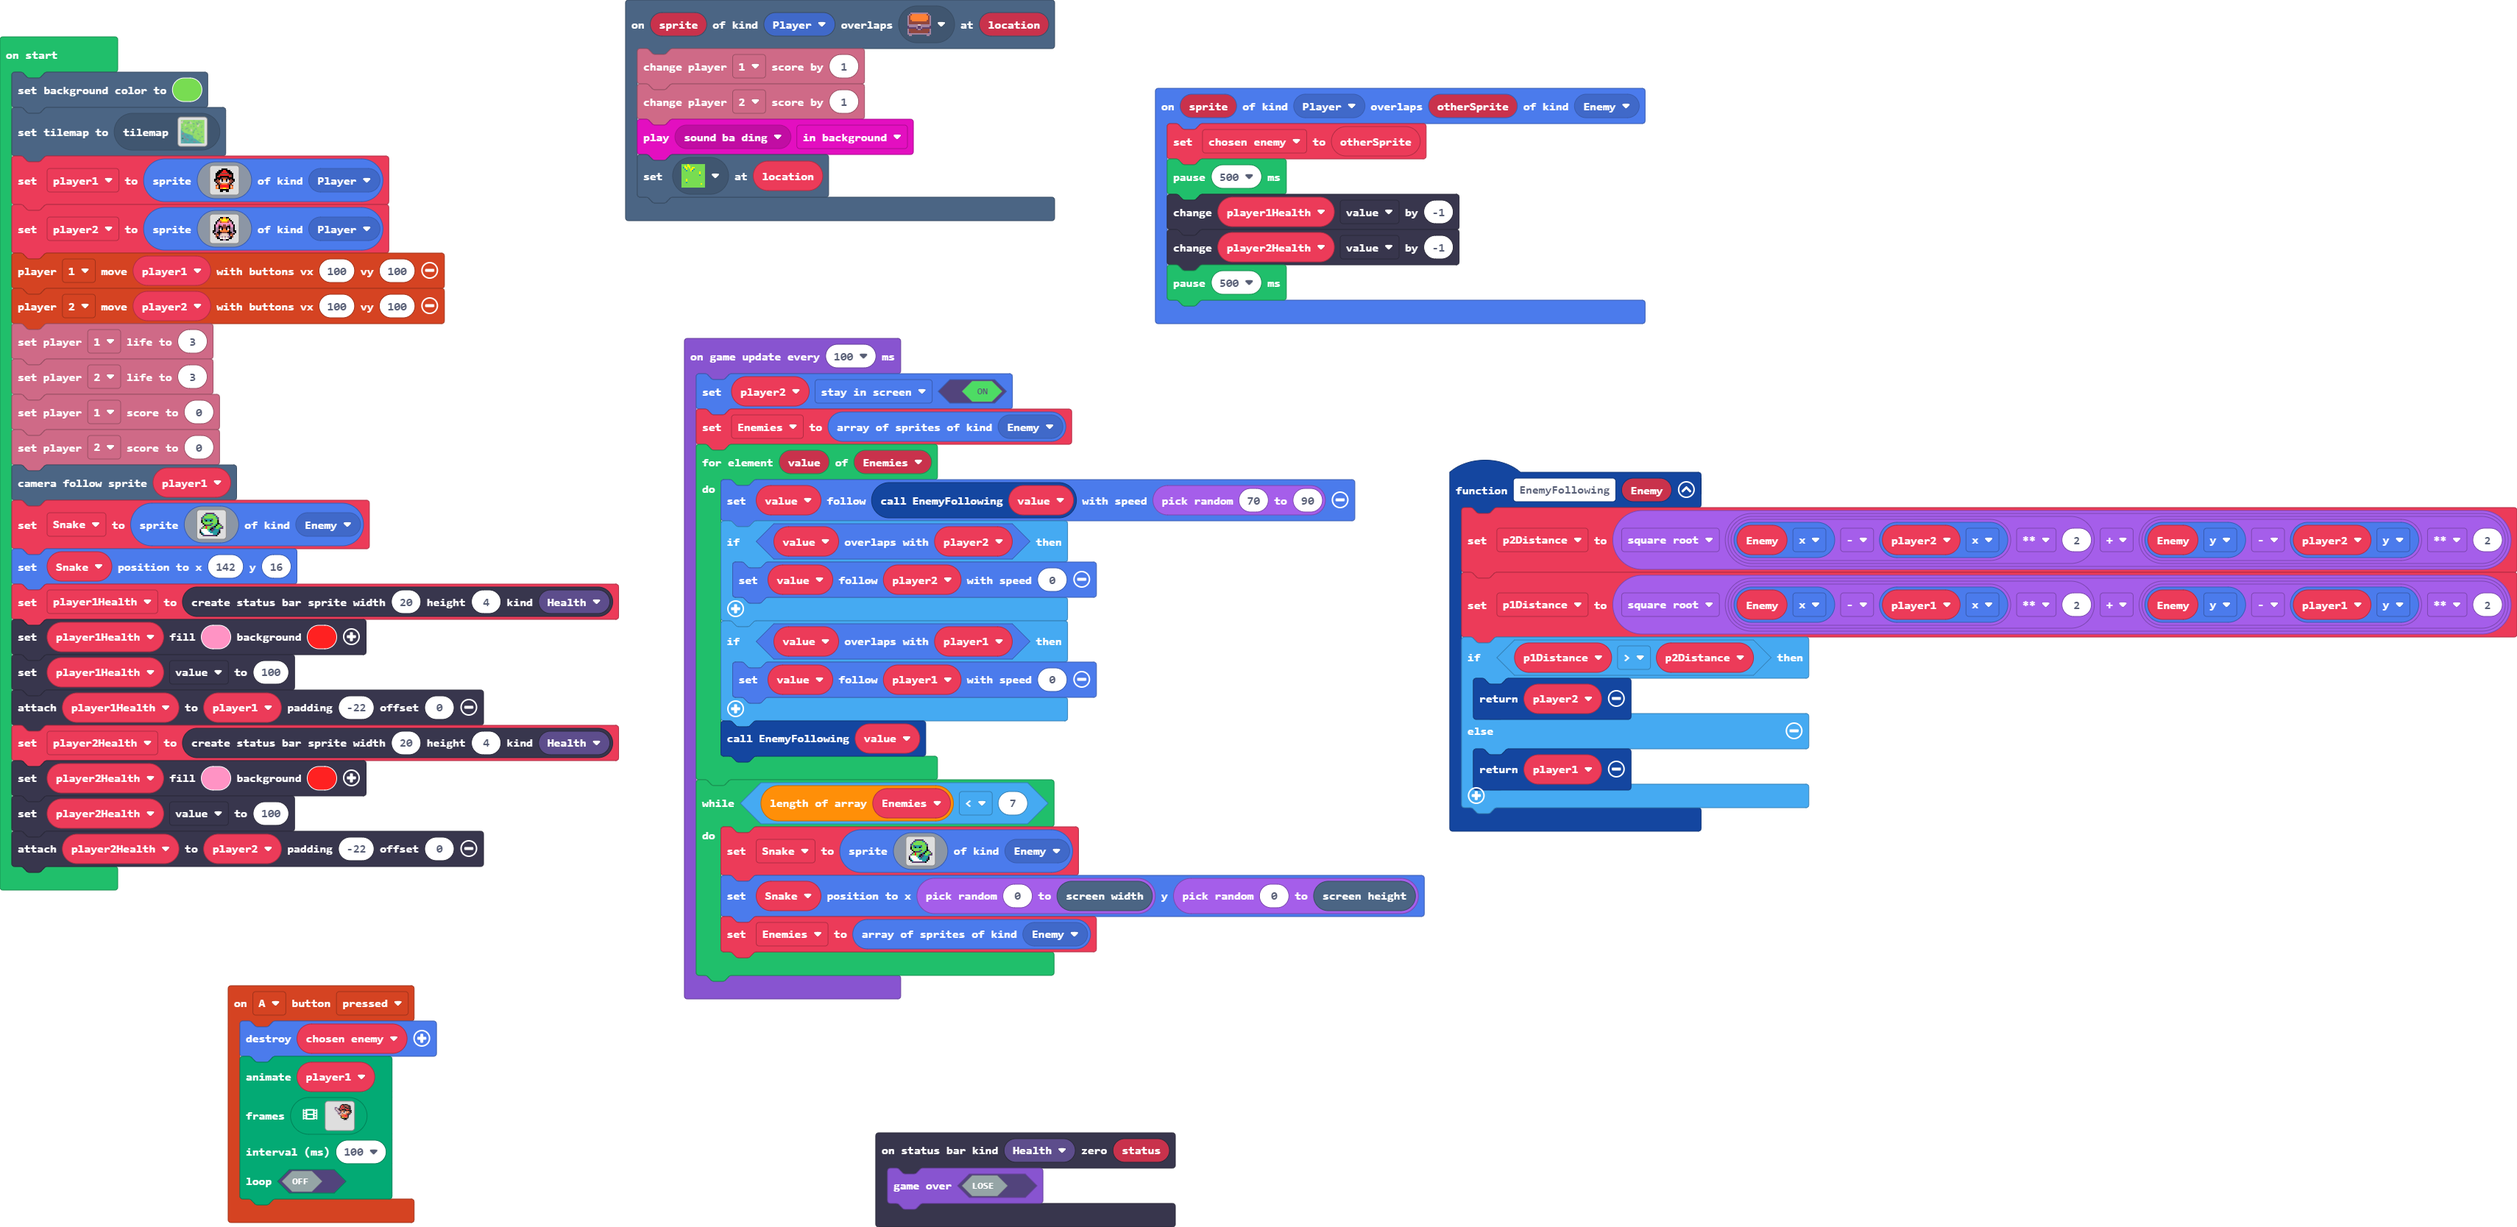
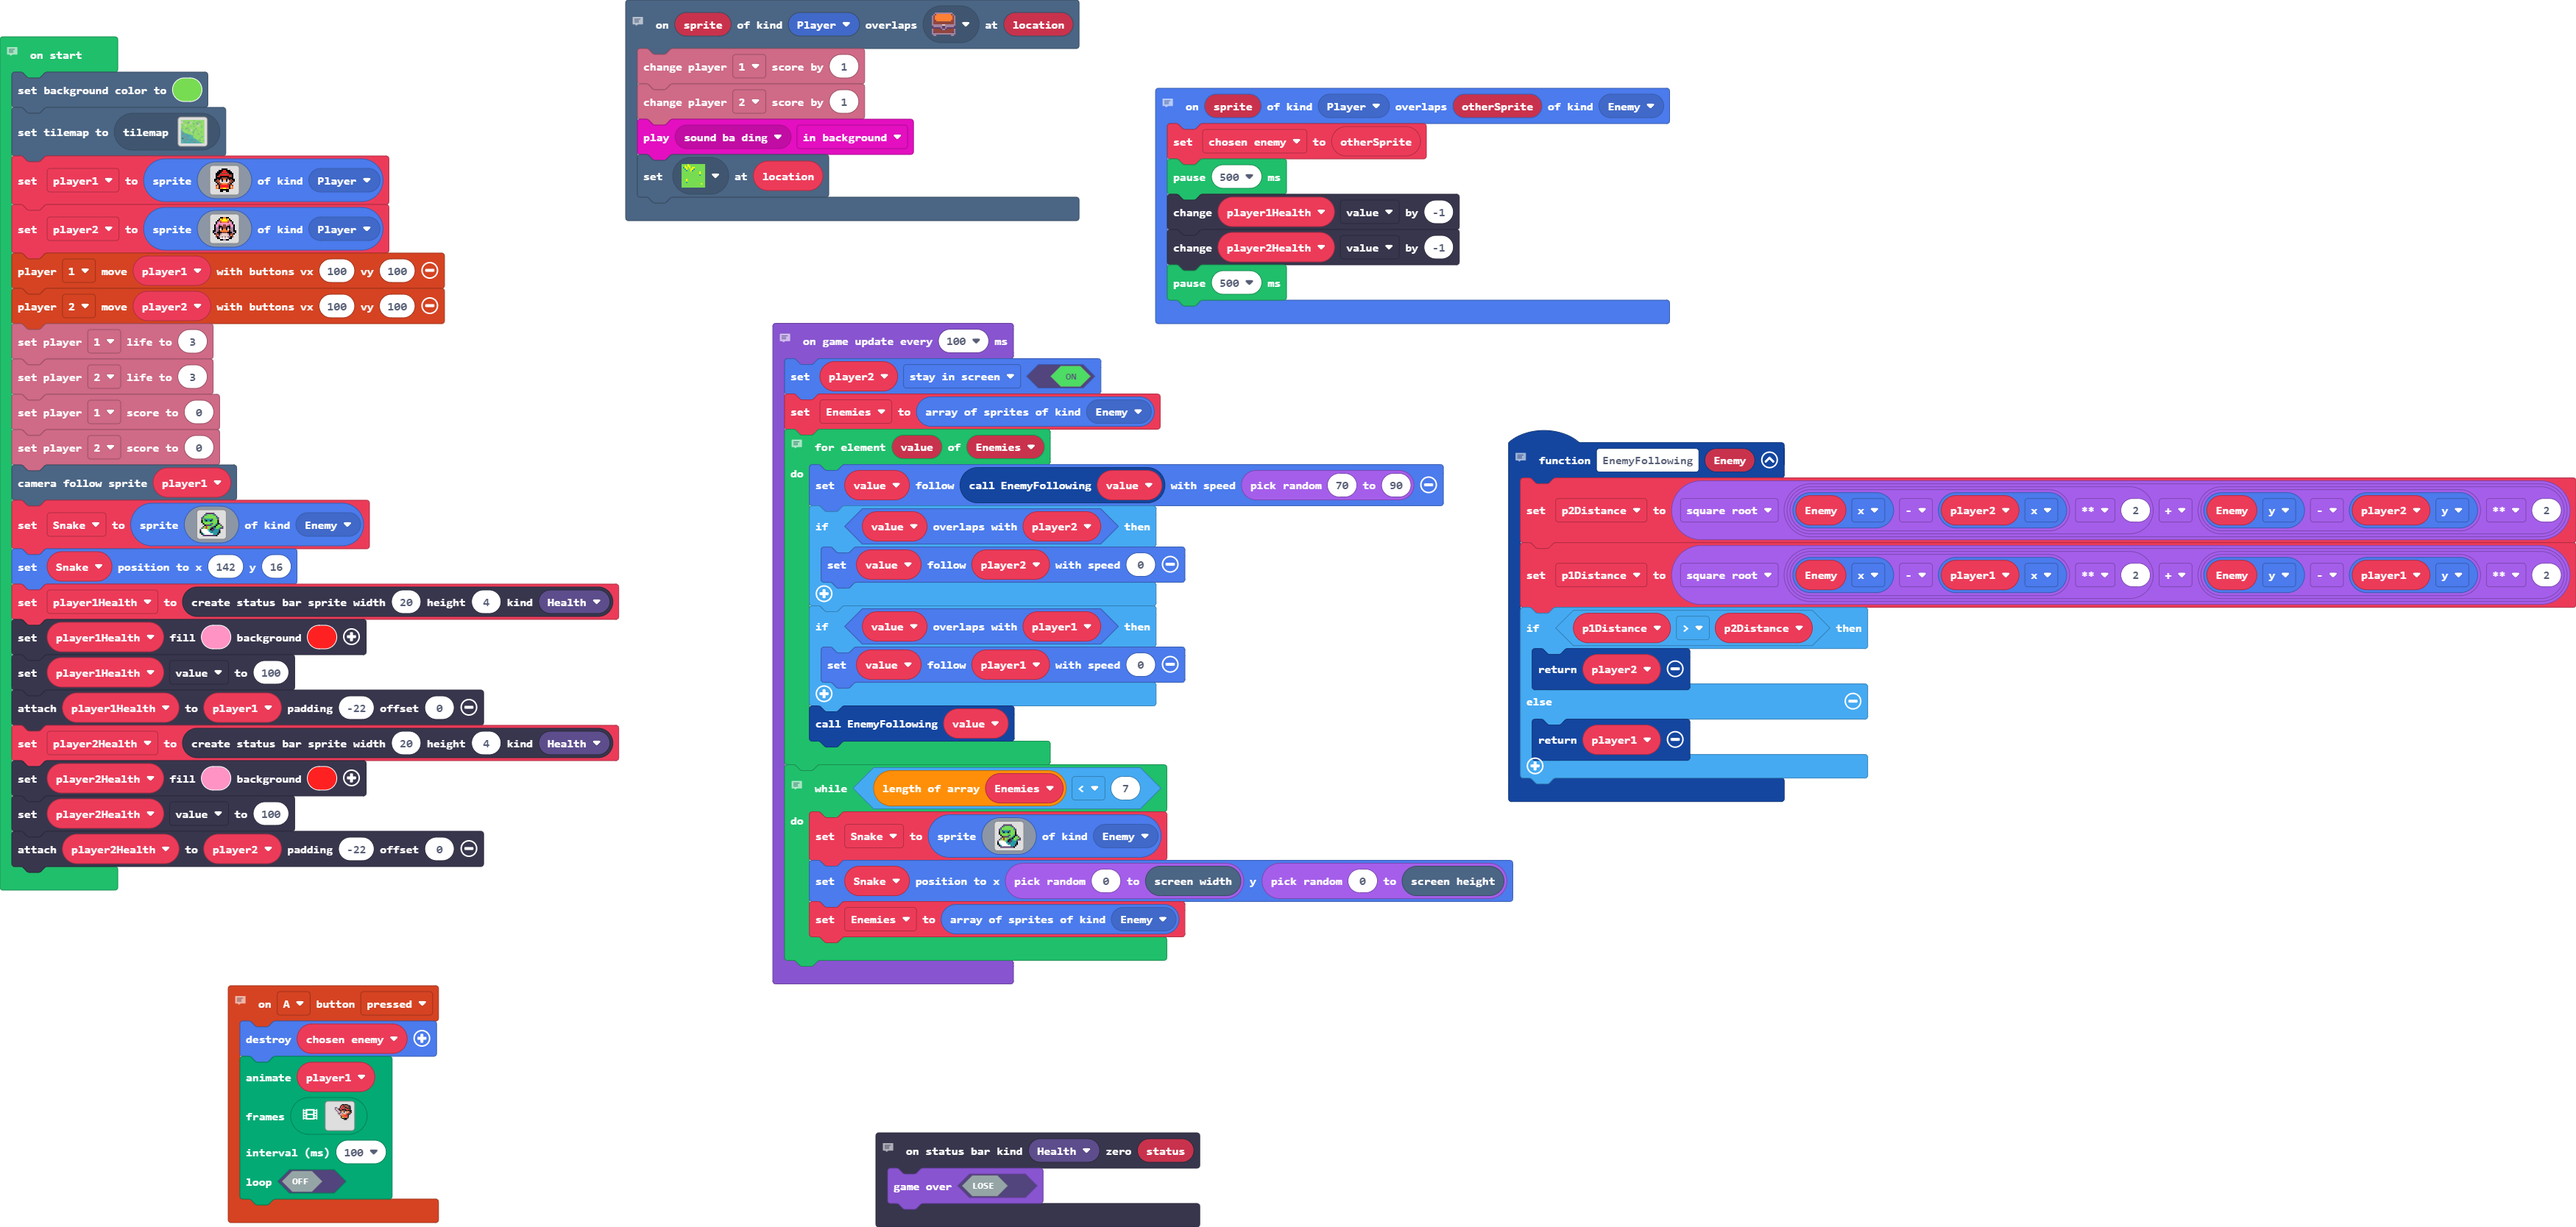
Update main.blocks, main.ts, main.py

diff --git a/main.ts b/main.ts
@@ -1,3 +1,4 @@
+//  This function allows the enemies to follow the closest player
 function EnemyFollowing(Enemy: Sprite): Sprite {
     
     p2Distance = Math.sqrt((Enemy.x - player2.x) ** 2 + (Enemy.y - player2.y) ** 2)
@@ -10,6 +11,7 @@ function EnemyFollowing(Enemy: Sprite): Sprite {
     
 }
 
+//  This allows the player to destroy the enemy and also animates the player while doing it
 controller.A.onEvent(ControllerButtonEvent.Pressed, function on_a_pressed() {
     sprites.destroy(chosen_enemy)
     animation.runImageAnimation(player1, [img`
@@ -114,15 +116,18 @@ controller.A.onEvent(ControllerButtonEvent.Pressed, function on_a_pressed() {
                         ........................
             `], 100, false)
 })
+//  This creates the chests that give you points
 scene.onOverlapTile(SpriteKind.Player, sprites.dungeon.chestClosed, function on_overlap_tile(sprite: Sprite, location: tiles.Location) {
     info.player1.changeScoreBy(1)
     info.player2.changeScoreBy(1)
     music.play(music.melodyPlayable(music.baDing), music.PlaybackMode.InBackground)
     tiles.setTileAt(location, sprites.castle.tileGrass1)
 })
+//  This ends the game if the players health reaches 0
 statusbars.onZero(StatusBarKind.Health, function on_on_zero(status: StatusBarSprite) {
     game.gameOver(false)
 })
+//  This block of code stores the overlapped enemy into a variable, and also depletes the players health when they overlap an enemy.
 sprites.onOverlap(SpriteKind.Player, SpriteKind.Enemy, function on_on_overlap(sprite2: Sprite, otherSprite: Sprite) {
     
     chosen_enemy = otherSprite
@@ -131,6 +136,7 @@ sprites.onOverlap(SpriteKind.Player, SpriteKind.Enemy, function on_on_overlap(sp
     player2Health.value += -1
     pause(500)
 })
+//  This block chain creates the players, map, and enemy
 let Enemies : Sprite[] = []
 let chosen_enemy : Sprite = null
 let p1Distance = 0
@@ -213,10 +219,12 @@ player2Health = statusbars.create(20, 4, StatusBarKind.Health)
 player2Health.setColor(3, 2)
 player2Health.value = 100
 player2Health.attachToSprite(player2, -22, 0)
+//  This block chain creates an enemy array, and uses that array to limit the amount of enemies. This also programs the enemies so that they follow the players.
 game.onUpdateInterval(100, function on_update_interval() {
     
     player2.setFlag(SpriteFlag.StayInScreen, true)
     Enemies = sprites.allOfKind(SpriteKind.Enemy)
+    //  This programs the enemies to follow the player
     for (let value of Enemies) {
         value.follow(EnemyFollowing(value), randint(70, 90))
         if (value.overlapsWith(player2)) {
@@ -229,6 +237,7 @@ game.onUpdateInterval(100, function on_update_interval() {
         
         EnemyFollowing(value)
     }
+    //  This creates multiple enemies and also limits the amount of enemies in the game
     while (Enemies.length < 7) {
         Snake = sprites.create(img`
                 . . . . c c c c c c . . . . . . 

diff --git a/main.py b/main.py
@@ -1,3 +1,4 @@
+# This function allows the enemies to follow the closest player
 def EnemyFollowing(Enemy: Sprite):
     global p2Distance, p1Distance
     p2Distance = Math.sqrt((Enemy.x - player2.x) ** 2 + (Enemy.y - player2.y) ** 2)
@@ -6,6 +7,7 @@ def EnemyFollowing(Enemy: Sprite):
         return player2
     else:
         return player1
+# This allows the player to destroy the enemy and also animates the player while doing it
 
 def on_a_pressed():
     sprites.destroy(chosen_enemy)
@@ -118,6 +120,8 @@ def on_a_pressed():
         False)
 controller.A.on_event(ControllerButtonEvent.PRESSED, on_a_pressed)
 
+# This creates the chests that give you points
+
 def on_overlap_tile(sprite, location):
     info.player1.change_score_by(1)
     info.player2.change_score_by(1)
@@ -128,9 +132,13 @@ scene.on_overlap_tile(SpriteKind.player,
     sprites.dungeon.chest_closed,
     on_overlap_tile)
 
+# This ends the game if the players health reaches 0
+
 def on_on_zero(status):
     game.game_over(False)
 statusbars.on_zero(StatusBarKind.health, on_on_zero)
+
+# This block of code stores the overlapped enemy into a variable, and also depletes the players health when they overlap an enemy.
 
 def on_on_overlap(sprite2, otherSprite):
     global chosen_enemy
@@ -141,6 +149,7 @@ def on_on_overlap(sprite2, otherSprite):
     pause(500)
 sprites.on_overlap(SpriteKind.player, SpriteKind.enemy, on_on_overlap)
 
+# This block chain creates the players, map, and enemy
 Enemies: List[Sprite] = []
 chosen_enemy: Sprite = None
 p1Distance = 0
@@ -226,11 +235,13 @@ player2Health = statusbars.create(20, 4, StatusBarKind.health)
 player2Health.set_color(3, 2)
 player2Health.value = 100
 player2Health.attach_to_sprite(player2, -22, 0)
+# This block chain creates an enemy array, and uses that array to limit the amount of enemies. This also programs the enemies so that they follow the players.
 
 def on_update_interval():
     global Enemies, Snake
     player2.set_flag(SpriteFlag.STAY_IN_SCREEN, True)
     Enemies = sprites.all_of_kind(SpriteKind.enemy)
+    # This programs the enemies to follow the player
     for value in Enemies:
         value.follow(EnemyFollowing(value), randint(70, 90))
         if value.overlaps_with(player2):
@@ -238,6 +249,7 @@ def on_update_interval():
         if value.overlaps_with(player1):
             value.follow(player1, 0)
         EnemyFollowing(value)
+    # This creates multiple enemies and also limits the amount of enemies in the game
     while len(Enemies) < 7:
         Snake = sprites.create(img("""
                 . . . . c c c c c c . . . . . . 
